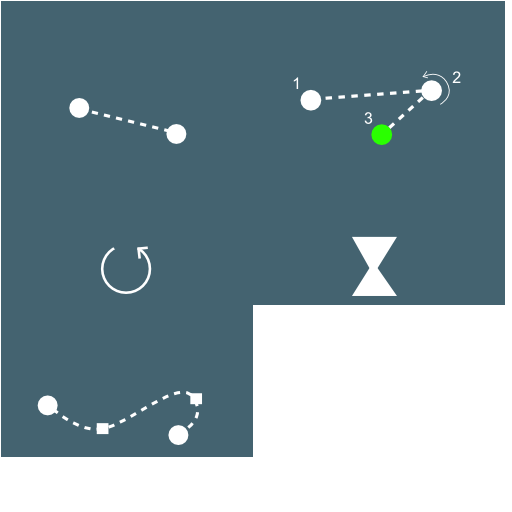
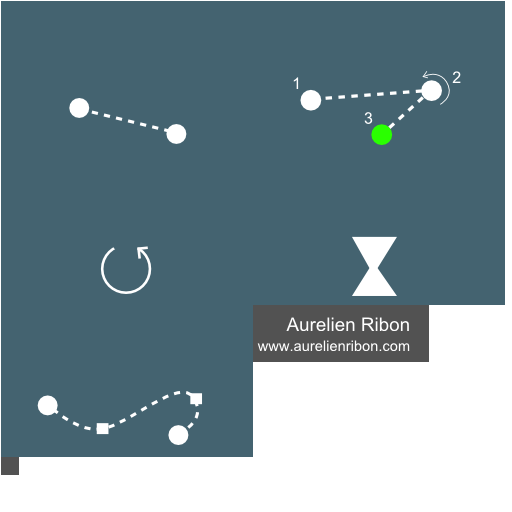
+ (demo) added title to launcher

Changed region(s): [[0.4688, 0.5938, 0.8438, 0.7188], [0.0, 0.875, 0.0625, 0.9375]]

diff --git a/tween-engine-tests/src/aurelienribon/tweenengine/demo/Launcher.java b/tween-engine-tests/src/aurelienribon/tweenengine/demo/Launcher.java
@@ -5,6 +5,8 @@ import aurelienribon.tweenengine.BaseTween;
 import aurelienribon.tweenengine.Tween;
 import aurelienribon.tweenengine.TweenCallback;
 import aurelienribon.tweenengine.TweenManager;
+import aurelienribon.tweenengine.equations.Cubic;
+import aurelienribon.tweenengine.equations.Quart;
 import com.badlogic.gdx.Gdx;
 import com.badlogic.gdx.Input.Keys;
 import com.badlogic.gdx.InputAdapter;
@@ -14,11 +16,9 @@ import com.badlogic.gdx.graphics.Color;
 import com.badlogic.gdx.graphics.GL10;
 import com.badlogic.gdx.graphics.OrthographicCamera;
 import com.badlogic.gdx.graphics.g2d.BitmapFont;
-import com.badlogic.gdx.graphics.g2d.BitmapFont.TextBounds;
 import com.badlogic.gdx.graphics.g2d.Sprite;
 import com.badlogic.gdx.graphics.g2d.SpriteBatch;
 import com.badlogic.gdx.graphics.g2d.TextureAtlas;
-import com.badlogic.gdx.graphics.g2d.TextureRegion;
 import com.badlogic.gdx.math.Vector3;
 import java.util.ArrayList;
 import java.util.List;
@@ -35,15 +35,19 @@ public class Launcher {
 	private final OrthographicCamera camera = new OrthographicCamera();
 	private final SpriteBatch batch = new SpriteBatch();
 	private final BitmapFont tileFont = new BitmapFont();
-	private final BitmapFont infoFont = new BitmapFont();
-	private final TextureRegion backgroundTexture;
+	private final Sprite background;
+	private final Sprite title;
+	private final Sprite titleLeft;
+	private final Sprite titleRight;
 	private final Sprite veil;
-	private final float tileW, tileH;
+	private final float tileW, tileH, titleH;
 	private Tile selectedTile;
 
 	public Launcher(Test[] tests) {
+		int w = Gdx.graphics.getWidth();
+		int h = Gdx.graphics.getHeight();
 		float wpw = 2;
-		float wph = wpw * Gdx.graphics.getHeight() / Gdx.graphics.getWidth();
+		float wph = wpw * h / w;
 
 		camera.viewportWidth = wpw;
 		camera.viewportHeight = wph;
@@ -54,8 +58,21 @@ public class Launcher {
 		tileFont.setUseIntegerPositions(false);
 
 		TextureAtlas atlas = Assets.inst().get("data/launcher/pack", TextureAtlas.class);
-		backgroundTexture = atlas.findRegion("background");
+		background = atlas.createSprite("background");
+		title = atlas.createSprite("title");
+		titleLeft = atlas.createSprite("title-left");
+		titleRight = atlas.createSprite("title-right");
 		veil = atlas.createSprite("white");
+
+		background.setSize(w, h);
+		background.setPosition(0, 0);
+
+		titleLeft.setPosition(0, h);
+		titleRight.setPosition(w-titleRight.getWidth(), h);
+		title.setSize(w, titleLeft.getHeight());
+		title.setPosition(0, h);
+		titleH = titleLeft.getHeight() * wph / h;
+
 		veil.setSize(wpw, wph);
 		veil.setPosition(-wpw/2, -wph/2);
 		Tween.to(veil, SpriteAccessor.OPACITY, 0.7f).target(0).setCallback(veilEndCallback).start(tweenManager);
@@ -65,7 +82,7 @@ public class Launcher {
 		tileW = (wpw-TILES_PADDING)/TILES_PER_LINE - TILES_PADDING;
 		tileH = tileW * 150 / 250;
 		float tileX = -wpw/2 + TILES_PADDING;
-		float tileY = wph/2 - tileH - TILES_PADDING;
+		float tileY = wph/2 - tileH - TILES_PADDING - titleH;
 
 		for (int i=0; i<tests.length; i++) {
 			tiles.add(new Tile(tileX, tileY, tileW, tileH, tests[i], atlas, camera, tweenManager));
@@ -82,7 +99,6 @@ public class Launcher {
 		tweenManager.killAll();
 		batch.dispose();
 		tileFont.dispose();
-		infoFont.dispose();
 	}
 
 	public void render() {
@@ -101,7 +117,7 @@ public class Launcher {
 			batch.getProjectionMatrix().setToOrtho2D(0, 0, w, h);
 			batch.begin();
 			batch.disableBlending();
-			batch.draw(backgroundTexture, 0, 0, w, h);
+			background.draw(batch);
 			batch.end();
 
 			batch.setProjectionMatrix(camera.combined);
@@ -111,19 +127,31 @@ public class Launcher {
 			if (veil.getColor().a > 0.1f) veil.draw(batch);
 			batch.end();
 
+			batch.getProjectionMatrix().setToOrtho2D(0, 0, w, h);
+			batch.begin();
+			batch.disableBlending();
+			title.draw(batch);
+			titleLeft.draw(batch);
+			titleRight.draw(batch);
+			batch.end();
+
 		} else {
 			selectedTile.getTest().render();
-
-			if (selectedTile.getTest().getInfo() != null) {
-				TextBounds bs = infoFont.getMultiLineBounds(selectedTile.getTest().getInfo());
-
-				batch.getProjectionMatrix().setToOrtho2D(0, 0, w, h);
-				batch.begin();
-				infoFont.setColor(Color.GRAY);
-				infoFont.drawMultiLine(batch, selectedTile.getTest().getInfo(), 10, bs.height + 10);
-				batch.end();
-			}
 		}
+	}
+
+	private void showTitle(float delay) {
+		float dy = -title.getHeight();
+		Tween.to(title, SpriteAccessor.POS_XY, 0.5f).targetRelative(0, dy).delay(delay).ease(Quart.OUT).start(tweenManager);
+		Tween.to(titleLeft, SpriteAccessor.POS_XY, 0.5f).targetRelative(0, dy).delay(delay).ease(Quart.OUT).start(tweenManager);
+		Tween.to(titleRight, SpriteAccessor.POS_XY, 0.5f).targetRelative(0, dy).delay(delay).ease(Quart.OUT).start(tweenManager);
+	}
+
+	private void hideTitle(float delay) {
+		float dy = title.getHeight();
+		Tween.to(title, SpriteAccessor.POS_XY, 0.3f).targetRelative(0, dy).delay(delay).ease(Cubic.IN).start(tweenManager);
+		Tween.to(titleLeft, SpriteAccessor.POS_XY, 0.3f).targetRelative(0, dy).delay(delay).ease(Cubic.IN).start(tweenManager);
+		Tween.to(titleRight, SpriteAccessor.POS_XY, 0.3f).targetRelative(0, dy).delay(delay).ease(Cubic.IN).start(tweenManager);
 	}
 
 	// -------------------------------------------------------------------------
@@ -133,8 +161,9 @@ public class Launcher {
 	private final TweenCallback veilEndCallback = new TweenCallback() {
 		@Override
 		public void onEvent(int type, BaseTween source) {
+			showTitle(0);
 			for (int i=0; i<tiles.size(); i++) {
-				tiles.get(i).enter(i * 0.1f);
+				tiles.get(i).enter(i * 0.1f + 0.3f);
 			}
 		}
 	};
@@ -213,6 +242,7 @@ public class Launcher {
 					tiles.add(tile);
 					tile.maximize(maximizeCallback);
 					Gdx.input.setInputProcessor(null);
+					hideTitle(0.4f);
 				}
 			}
 
@@ -234,8 +264,12 @@ public class Launcher {
 		}
 
 		private void trimCamera() {
-			camera.position.y = Math.max(camera.position.y, -(tiles.size()/TILES_PER_LINE)*(tileH + TILES_PADDING) + camera.viewportHeight/2);
-			camera.position.y = Math.min(camera.position.y, 0);
+			int linesCntMinusOne = Math.max(tiles.size()-1, 0) / TILES_PER_LINE;
+			float min = -linesCntMinusOne * (tileH + TILES_PADDING) + camera.viewportHeight/2;
+			float max = 0;
+
+			camera.position.y = Math.max(camera.position.y, min);
+			camera.position.y = Math.min(camera.position.y, max);
 		}
 	};
 
@@ -247,6 +281,7 @@ public class Launcher {
 				selectedTile.minimize(minimizeCallback);
 				selectedTile = null;
 				Gdx.input.setInputProcessor(null);
+				showTitle(0.2f);
 			}
 
 			return false;

diff --git a/tween-engine-tests/src/aurelienribon/tweenengine/demo/tests/Repetitions.java b/tween-engine-tests/src/aurelienribon/tweenengine/demo/tests/Repetitions.java
@@ -40,17 +40,17 @@ public class Repetitions extends Test {
 		center(sprites[0], -3, +1);
 		center(sprites[1], -3, -1);
 
-		Tween.to(sprites[0], SpriteAccessor.CPOS_XY, 1.5f)
+		Tween.to(sprites[0], SpriteAccessor.CPOS_XY, 0.7f)
 			.ease(Cubic.INOUT)
 			.target(3, 1)
-			.repeat(-1, 0.5f)
+			.repeat(-1, 0.3f)
 			.delay(0.5f)
 			.start(tweenManager);
 
-		Tween.to(sprites[1], SpriteAccessor.CPOS_XY, 1.5f)
+		Tween.to(sprites[1], SpriteAccessor.CPOS_XY, 0.7f)
 			.ease(Cubic.INOUT)
 			.target(3, -1)
-			.repeatYoyo(-1, 0.5f)
+			.repeatYoyo(-1, 0.3f)
 			.delay(0.5f)
 			.start(tweenManager);
 	}

diff --git a/tween-engine-tests/src/aurelienribon/tweenengine/demo/Test.java b/tween-engine-tests/src/aurelienribon/tweenengine/demo/Test.java
@@ -105,6 +105,16 @@ public abstract class Test {
 			veil.draw(batch);
 			batch.end();
 		}
+
+		if (getInfo() != null) {
+			BitmapFont.TextBounds bs = font.getMultiLineBounds(getInfo());
+
+			batch.getProjectionMatrix().setToOrtho2D(0, 0, w, h);
+			batch.begin();
+			font.setColor(Color.GRAY);
+			font.drawMultiLine(batch, getInfo(), 10, bs.height + 10);
+			batch.end();
+		}
 	}
 
 	// -------------------------------------------------------------------------

diff --git a/tween-engine-tests/src/aurelienribon/tweenengine/demo/tests/Waypoints.java b/tween-engine-tests/src/aurelienribon/tweenengine/demo/tests/Waypoints.java
@@ -40,7 +40,7 @@ public class Waypoints extends Test {
 		createSprites(1);
 		center(sprites[0], 0, 0);
 
-		Tween.to(sprites[0], SpriteAccessor.CPOS_XY, 4.0f)
+		Tween.to(sprites[0], SpriteAccessor.CPOS_XY, 3.0f)
 			.waypoint(2, 2)
 			.waypoint(2, -2)
 			.waypoint(-2, 2)
